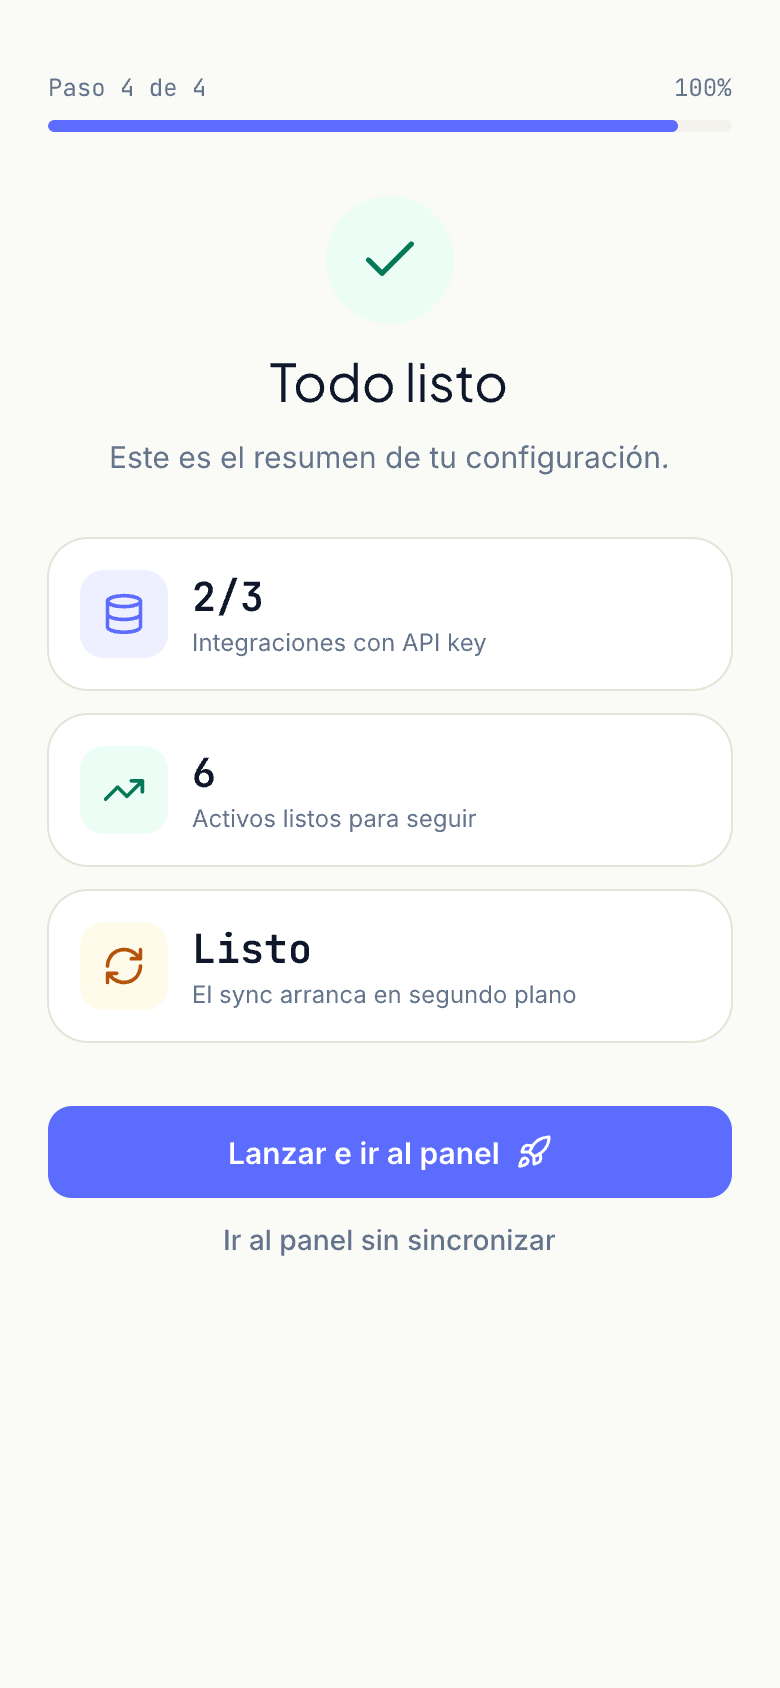
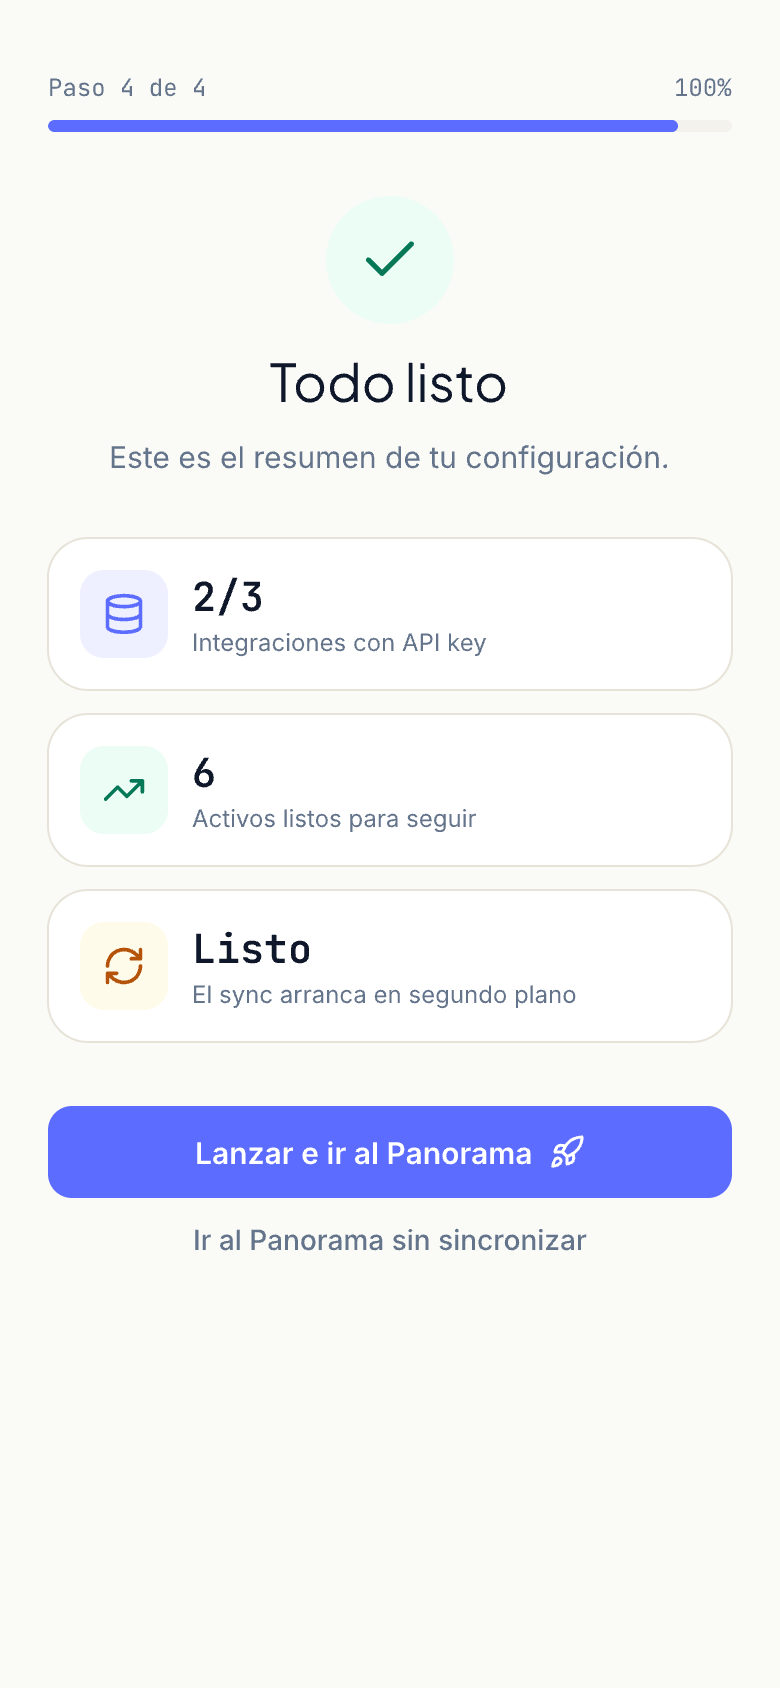
Pay three debts found while doing the work that found them
None of these came off the audit's list. Each turned up while building
something else this week, which is why they are worth paying now rather
than filing.

toggle_controller did not revert a rejected write. Writing
choice_controller for D58 is what exposed it: the new pill reverts when
the server refuses, and its older sibling - which drives both
notification switches - flipped optimistically and stayed flipped. The
switch is the only place the setting is visible, so a 422 left it
reporting a state the instance does not have. Same contract now, and the
class-flipping moved into render() so both paths use one.

TD2's trades_controller half is paid. Six strings were deliberately kept
out of the refactor batch so that batch stayed behaviour-free and the
suite could prove it; that reason expired when the refactor landed. They
are trades.flash.* keys now, including trade_notice, whose Compra/Venta
resolves through side_compra/side_venta rather than an inline ternary.
i18n-tasks reports no missing, no unused, no inconsistent interpolations.
positions_controller's four stay hardcoded on purpose - they go with
ACT-2's rebuild, same reason TD3 and TD4 are deferred.

ONB-4 turned out to be six divergences, not two. Reading the locale
instead of trusting the finding found four more of the same shape: the
code names the destination and the artboard says a generic "panel", or
uses the 1.0's word. Configura una alerta -> una regla (x2), Ir al panel
[…]

Changed region(s): [[0.2462, 0.6777, 0.7385, 0.7393]]

diff --git a/app/javascript/controllers/toggle_controller.js b/app/javascript/controllers/toggle_controller.js
@@ -7,33 +7,38 @@ export default class ToggleController extends Controller {
   static values = { url: String, field: String }
 
   toggle() {
-    const track = this.trackTarget
-    const knob = this.knobTarget
-    const isActive = track.classList.contains("bg-primary")
-
-    // bg-bg-muted is what the server renders for the off state. Toggling a
-    // different off-class (bg-slate-200) left both on the element, so a switch
-    // turned off by hand did not match one rendered off.
-    track.classList.toggle("bg-primary", !isActive)
-    track.classList.toggle("bg-bg-muted", isActive)
-    knob.classList.toggle("translate-x-5", !isActive)
-    knob.classList.toggle("translate-x-0", isActive)
+    const isActive = this.trackTarget.classList.contains("bg-primary")
+    this.render(!isActive)
 
     if (this.hasUrlValue && this.hasFieldValue) {
-      this.persist(!isActive)
+      // A rejected write must not stay flipped: the switch is the only place
+      // the setting is visible, so leaving it on would report a state the
+      // instance does not have. Same contract as `choice`.
+      this.persist(!isActive).catch(() => this.render(isActive))
     }
   }
 
-  persist(enabled) {
-    const csrfToken = document.querySelector("[name='csrf-token']")?.content
-    fetch(this.urlValue, {
+  // bg-bg-muted is what the server renders for the off state. Toggling a
+  // different off-class (bg-slate-200) left both on the element, so a switch
+  // turned off by hand did not match one rendered off.
+  render(on) {
+    this.trackTarget.classList.toggle("bg-primary", on)
+    this.trackTarget.classList.toggle("bg-bg-muted", !on)
+    this.knobTarget.classList.toggle("translate-x-5", on)
+    this.knobTarget.classList.toggle("translate-x-0", !on)
+  }
+
+  async persist(enabled) {
+    const response = await fetch(this.urlValue, {
       method: "PATCH",
       headers: {
         "Content-Type": "application/json",
-        "X-CSRF-Token": csrfToken,
+        "X-CSRF-Token": document.querySelector("[name='csrf-token']")?.content,
         "Accept": "application/json"
       },
       body: JSON.stringify({ [this.fieldValue]: enabled })
     })
+
+    if (!response.ok) throw new Error(response.status)
   }
 }

diff --git a/app/controllers/trades_controller.rb b/app/controllers/trades_controller.rb
@@ -100,10 +100,10 @@ class TradesController < AuthenticatedController
         format.turbo_stream do
           render turbo_stream: [
             turbo_stream.replace(trade, partial: "trades/trade_row", locals: { trade: trade }),
-            flash_stream("notice", "Movimiento actualizado.")
+            flash_stream("notice", t("trades.flash.actualizado"))
           ]
         end
-        format.html { redirect_to trades_path, notice: "Movimiento actualizado." }
+        format.html { redirect_to trades_path, notice: t("trades.flash.actualizado") }
       end
     in Dry::Monads::Failure[ :validation, errors ]
       respond_with_alert(errors.values.flatten.first, fallback: trades_path)
@@ -121,10 +121,10 @@ class TradesController < AuthenticatedController
         format.turbo_stream do
           render turbo_stream: [
             turbo_stream.remove(trade),
-            flash_stream("notice", "Movimiento eliminado.")
+            flash_stream("notice", t("trades.flash.eliminado"))
           ]
         end
-        format.html { redirect_to trades_path, notice: "Movimiento eliminado." }
+        format.html { redirect_to trades_path, notice: t("trades.flash.eliminado") }
       end
     in Dry::Monads::Failure[ _, message ]
       respond_with_alert(message, fallback: trades_path)
@@ -148,12 +148,14 @@ class TradesController < AuthenticatedController
 
   def find_trade_or_redirect
     trade = current_user.portfolio&.trades&.find_by(id: params[:id])
-    redirect_to trades_path, alert: "Movimiento no encontrado." if trade.nil?
+    redirect_to trades_path, alert: t("trades.flash.no_encontrado") if trade.nil?
     trade
   end
 
   def trade_notice(trade)
-    "#{trade.buy? ? "Compra" : "Venta"} registrada: #{trade.shares} títulos de #{trade.asset.symbol}"
+    t("trades.flash.registrado",
+      side: t("trades.flash.side_#{trade.buy? ? "compra" : "venta"}"),
+      shares: trade.shares, symbol: trade.asset.symbol)
   end
 
   # A fresh sheet inside the frame, keeping the side the user was working in —

diff --git a/design/V2_REMAINING.md b/design/V2_REMAINING.md
@@ -468,23 +468,48 @@ Two drifts inside it, found while reading:
   side; the code is `max-w-2xl` (672px). The three cards do go side by side at `sm:`, so the
   intent survives — the width does not.
 
-### ONB-4 🟡 Two copy divergences between artboard and code
+### ONB-4 ✅ Copy divergences — six, not two, all aligned 2026-08-28
 
 | | Artboard | Code |
 |---|---|---|
 | Welcome CTA | *Ir al panel* | *Ir al Panorama* |
 | Third guide card | *Configura una alerta* | *Configura una regla* |
 
-The second is the more interesting one: **the code is right and the artboard is behind**. The tab
-is *Reglas*, D13 settled the vocabulary, and *alerta* is the word the 1.0 used. Fix the artboard.
+**Applied — and reading the locale turned two divergences into six.** Every one has the same shape:
+the code names the destination and the artboard says a generic *panel*, or the artboard uses the
+1.0's word. The code is right in all six.
+
+| Artboard said | Code says | Where |
+|---|---|---|
+| *Configura una alerta* | *Configura una regla* | Welcome ×2 |
+| *Ir al panel* | *Ir al Panorama* | Welcome CTA ×2 |
+| *Lanzar e ir al panel* | *Lanzar e ir al Panorama* | Complete |
+| *Ir al panel sin sincronizar* | *Ir al Panorama sin sincronizar* | Complete |
+
+The tab is *Reglas*, D13 settled that vocabulary, and *alerta* is the word the 1.0 used. This is the
+artboard following the code — the documented exception `assets.pen` already took for D48, and
+correct for the same reason: the copy shipped first and reads better.
+
+Exports re-shot for Welcome, Welcome · Desktop and Complete.
 
 ### ONB-5 ⚪ The Assets step draws four categories against the code's five
 
 `Administration::Domain::AssetCatalog::CATALOG` has five keys and `onboarding.categorias` in the
 locale has five entries — `us_stocks`, `crypto`, `etfs`, `mexican_stocks`, `fixed_income`. The
-`Assets` artboard draws four; **`Acciones · México` is missing**. The brief already records this
-category split as *"not a design call — the code had already made it"*, so the artboard simply
-did not finish catching up.
+`Assets` artboard draws four; **`Acciones · México` is missing**.
+
+**Measured 2026-08-28 rather than deferred on a hunch, and the measurement found a product question
+underneath.** The mobile artboard is 390×844 with its `Col` already at 793, and a two-item group
+costs ~119px (what `CRIPTO` costs), so the artboard has to grow past 844 — allowed, since D7 is a
+floor and `Welcome` is already 915, but it is an artboard resize plus the desktop `Form Panel`, not
+a copy fix.
+
+**The real blocker is what the group would show.** The catalogue's only two MX entries are
+`GENIUSSACV.MX` (Genius Sports) and `IVVPESO.MX` (iShares S&P 500 in MXN) — a sports-betting
+company and a repackaged US index. Featuring those as *Acciones · México* on the screen that shapes
+a first run is a product call in C1 Lucía's lane, not a catch-up edit. **Either the catalogue's MX
+entries change or the group does; drawing what is there today would ship a recommendation nobody
+made.**
 
 ### ONB-6 ✅ D59 — applied 2026-08-28: it stays a promise, and lost its checkmarks
 
@@ -847,10 +872,10 @@ The screen drops from **three** commit models to two: instant-local (theme) and 
 (currency, switches). The artboard draws no `Guardar`, so design and code converged with no artboard
 edit.
 
-**One thing the new controller does that `toggle` does not: it reverts on a rejected value.** The
-pill is the only place the choice is visible, so leaving it on a value the server refused would
-report a state the instance does not have. `toggle` should do the same and does not — its own
-item, not this one's.
+**The new controller reverts on a rejected value**, because the pill is the only place the choice is
+visible and leaving it on a value the server refused would report a state the instance does not
+have. `toggle` did not do this; **it does now** — same contract, fixed 2026-08-28 in the same pass
+that found it.
 
 ### AJU-4 ⚪ The `Estado y mantenimiento` artboard still carries a warning its own brief retired
 
@@ -1010,10 +1035,11 @@ not `create` / `update` / `destroy`, which is where all six blocks live.
 ADR-011 puts controller error strings on i18n. `sessions_controller` already does it
 (`t("auth.flash.…")`), so the pattern is established and these two controllers are the holdouts.
 
-**Split 2026-08-28, and neither half was done.** `positions_controller`'s four strings go with
-ACT-2's rebuild, so writing keys for them now is work for a screen being replaced.
-`trades_controller`'s six survive D60 and are genuinely owed — they were kept out of this batch so it
-stayed a refactor with no copy changes, which is what let the suite prove it.
+**Split 2026-08-28. `trades_controller`'s half is paid; `positions_controller`'s is not.** The six
+that survive D60 are now `trades.flash.*` keys — including `trade_notice`, whose *Compra*/*Venta*
+resolves through `side_compra`/`side_venta` rather than an inline ternary. `i18n-tasks` reports no
+missing and no unused keys. `positions_controller`'s four go with ACT-2's rebuild: writing keys for
+a screen being replaced is the same waste TD3 and TD4 are deferred for.
 
 ### TD3 ⏸ — deferred to ACT-2, deliberately
 

diff --git a/design/README.md b/design/README.md
@@ -141,6 +141,12 @@ Operating notes, not preferences. Each cost a mistake.
   brief that way. **Verify by grepping for the specific content you wrote**, and when the grep count
   is ambiguous, confirm with a `Get` query: prose in a brief matches the same strings as a live
   artboard.
+- **A raw grep count is not a node count, and reading it as one will send you chasing ghosts.** The
+  serialized `.pen` holds strings that are not live nodes: after renaming two texts on 2026-08-28,
+  `grep -c` fell 4 → 2 while `Get` reported exactly two nodes, both already renamed, and the
+  screenshot confirmed it. **A grep answers *did the write land*; only `Get` answers *how many
+  nodes say this*, and only a screenshot answers *what does a reader see*.** Use the count as a
+  direction, never as a total.
 - **Reconcile against the kit's list, never against the diff — and compare values, not names.**
   Installing only the new tokens is how `auth.pen` and `onboarding.pen` went four minor versions
   without `scrim`. Comparing membership but not values is how `brand.pen` diverged on `info-fg`
